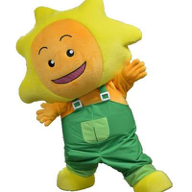
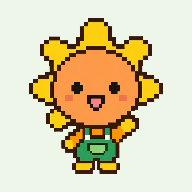
ぽっぽの画像をドット絵に差し替え

diff --git a/index.html b/index.html
@@ -65,11 +65,11 @@ h1{font-size:34px;font-weight:900;margin:8px 0 18px;line-height:1.4;text-wrap:ba
 .poppo{position:relative;width:100%;max-width:300px;aspect-ratio:1;margin:0 auto}
 .poppo .sunbg{position:absolute;inset:6%;border-radius:50%;background:radial-gradient(circle at 50% 45%,var(--sun-soft),var(--sky) 70%)}
 .poppo .body{position:absolute;inset:0;transform-origin:50% 90%;transition:transform .6s;container-type:inline-size}
-.poppo img{width:100%;height:100%;object-fit:contain;display:block}
+.poppo img{width:100%;height:100%;object-fit:contain;display:block;image-rendering:pixelated}
 .poppo .wear{position:absolute;line-height:1;pointer-events:none;filter:drop-shadow(0 2px 1px rgba(0,0,0,.2))}
-.wear.hat{left:16%;top:-16%;font-size:36cqw}
-.wear.glasses{left:24%;top:15%;font-size:22cqw}
-.wear.muffler{left:40%;top:44%;font-size:22cqw}
+.wear.hat{left:31%;top:-12%;font-size:38cqw}
+.wear.glasses{left:37%;top:33%;font-size:26cqw}
+.wear.muffler{left:39.5%;top:62%;font-size:21cqw}
 .poppo .zz{position:absolute;right:4%;top:2%;font-size:34px;font-weight:900;color:var(--blue)}
 .poppo.sleepy img{filter:saturate(.75) brightness(.97)}
 .poppo.sleepy .body{transform:rotate(-6deg)}
@@ -665,12 +665,12 @@ async function drawLetter() {
   const img = await loadImg("assets/poppo.png");
   if (img) {
     const sz = 440 * st.scale, x0 = W / 2 - sz / 2, y0 = 820 - sz;
-    g.drawImage(img, x0, y0, sz, sz);
-    g.font = `${Math.round(sz * 0.27)}px sans-serif`; g.textAlign = "left";
-    if (p.wearing.includes("hat")) g.fillText("👒", x0 + sz * 0.2, y0 + sz * 0.13);
-    g.font = `${Math.round(sz * 0.17)}px sans-serif`;
-    if (p.wearing.includes("glasses")) g.fillText("👓", x0 + sz * 0.23, y0 + sz * 0.33);
-    if (p.wearing.includes("muffler")) g.fillText("🧣", x0 + sz * 0.4, y0 + sz * 0.6);
+    g.imageSmoothingEnabled = false; g.drawImage(img, x0, y0, sz, sz);
+    g.textAlign = "left";
+    const put = (e, fx, fy, fs) => { g.font = `${Math.round(sz * fs)}px sans-serif`; g.fillText(e, x0 + sz * fx, y0 + sz * fy); };
+    if (p.wearing.includes("hat")) put("👒", 0.31, 0.21, 0.38);
+    if (p.wearing.includes("glasses")) put("👓", 0.37, 0.545, 0.26);
+    if (p.wearing.includes("muffler")) put("🧣", 0.395, 0.80, 0.21);
     g.textAlign = "center";
   }
   // 数字

diff --git a/sw.js b/sw.js
@@ -1,5 +1,5 @@
 // オフラインで動かすため、アプリのファイルを端末に保存する
-const CACHE = "poppo-v1";
+const CACHE = "poppo-v2";
 const FILES = ["./", "index.html", "manifest.json", "assets/poppo.png", "assets/icon-192.png", "assets/icon-512.png"];
 
 self.addEventListener("install", (e) => {
